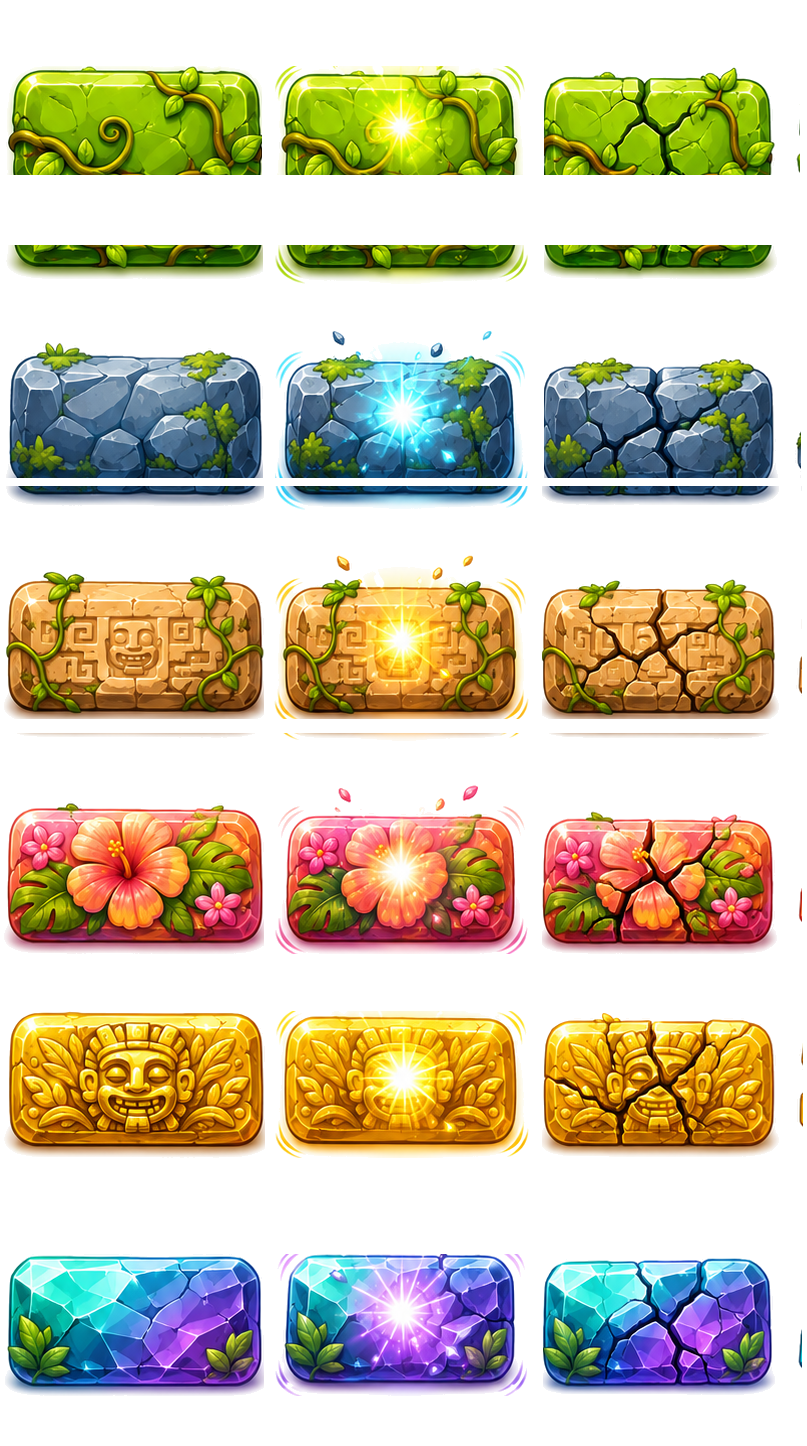
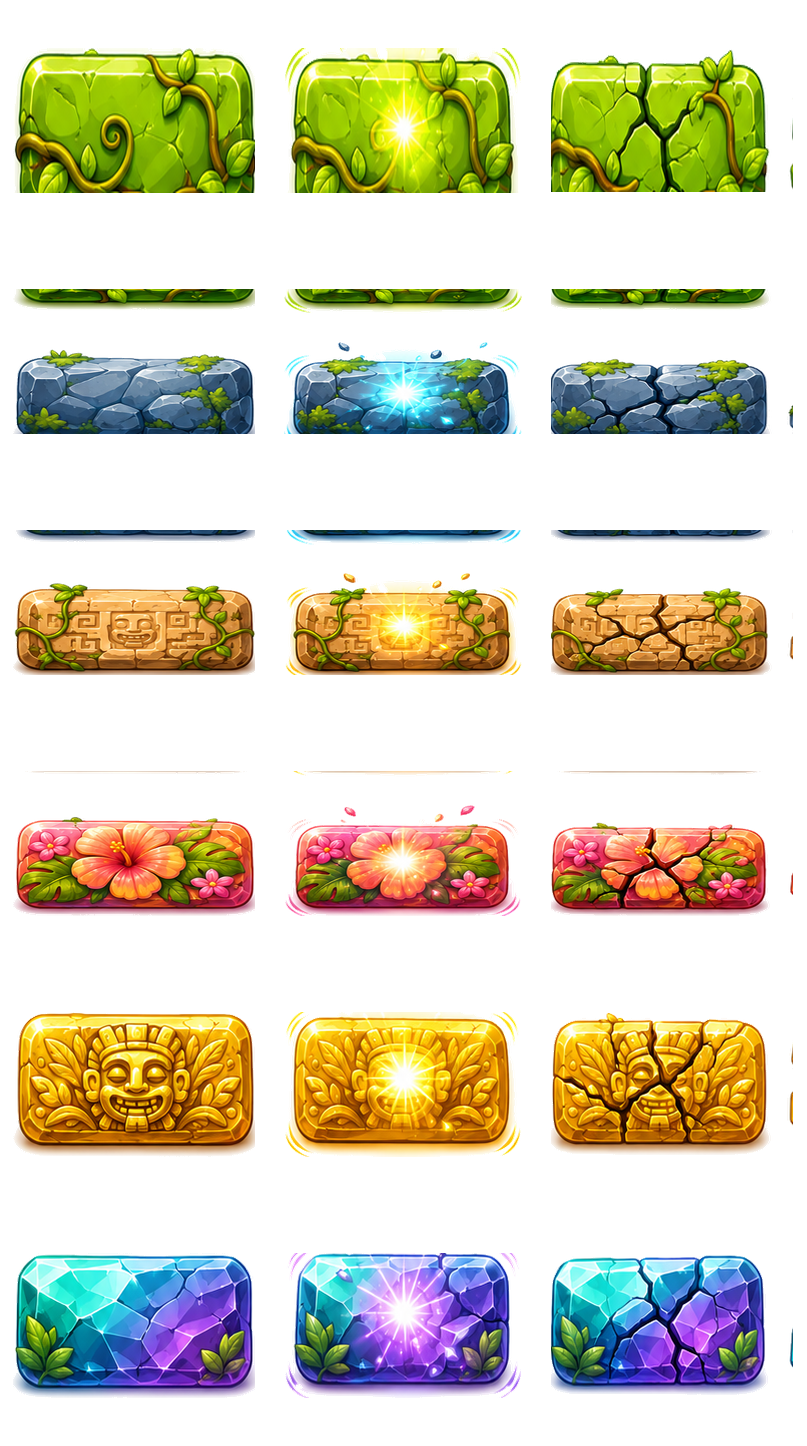
Fix: brick 'residue' band — tight-trim slicer + re-sliced theme sheets
contentBox padded 2px OUTWARD (grabbed neighbour pixels); now trims tight +1px
inset, ignores faint bleed. Re-composited jungle/space/ocean brick sheets so
each frame is trimmed tight with a transparent safety margin, so the engine's
0.62 vertical overscan no longer paints a neighbour band. QA breaker/survival/
sling all pass.

diff --git a/public/asset-library.html b/public/asset-library.html
@@ -474,12 +474,17 @@ function csRefreshLayout(){
 function loadImg(src){return new Promise((res,rej)=>{const i=new Image();i.onload=()=>res(i);i.onerror=rej;i.src=src;});}
 function contentBox(ctx,x,y,w,h,transparent){
   const d=ctx.getImageData(x,y,w,h).data; let minX=w,minY=h,maxX=-1,maxY=-1;
+  // alpha>40 (was 18): ignore the faint anti-aliased bleed of a NEIGHBOURING sprite
+  // that leaked to this cell's edge, so it never counts as this piece's content.
   for(let j=0;j<h;j++)for(let i=0;i<w;i++){ const o=(j*w+i)*4;
-    const fg = transparent ? d[o+3]>18 : !(d[o]>242&&d[o+1]>242&&d[o+2]>242&&d[o+3]>18);
+    const fg = transparent ? d[o+3]>40 : !(d[o]>242&&d[o+1]>242&&d[o+2]>242&&d[o+3]>18);
     if(fg){ if(i<minX)minX=i; if(i>maxX)maxX=i; if(j<minY)minY=j; if(j>maxY)maxY=j; } }
   if(maxX<0)return null;
-  const pad=2; return {x:x+Math.max(0,minX-pad),y:y+Math.max(0,minY-pad),
-    w:Math.min(w-minX+pad,maxX-minX+1+pad*2),h:Math.min(h-minY+pad,maxY-minY+1+pad*2)};
+  // Trim TIGHT to the sprite, then a 1px safety INSET so no sliver of a touching
+  // neighbour rides along an edge. (The old code padded 2px OUTWARD — that is exactly
+  // what pulled the neighbour's pixels into the crop and left the stray band.)
+  const bw=maxX-minX+1, bh=maxY-minY+1, ix=bw>4?1:0, iy=bh>4?1:0;
+  return {x:x+minX+ix, y:y+minY+iy, w:bw-2*ix, h:bh-2*iy};
 }
 function cropFrom(srcCanvas,box){
   const c=document.createElement("canvas");c.width=box.w;c.height=box.h;
